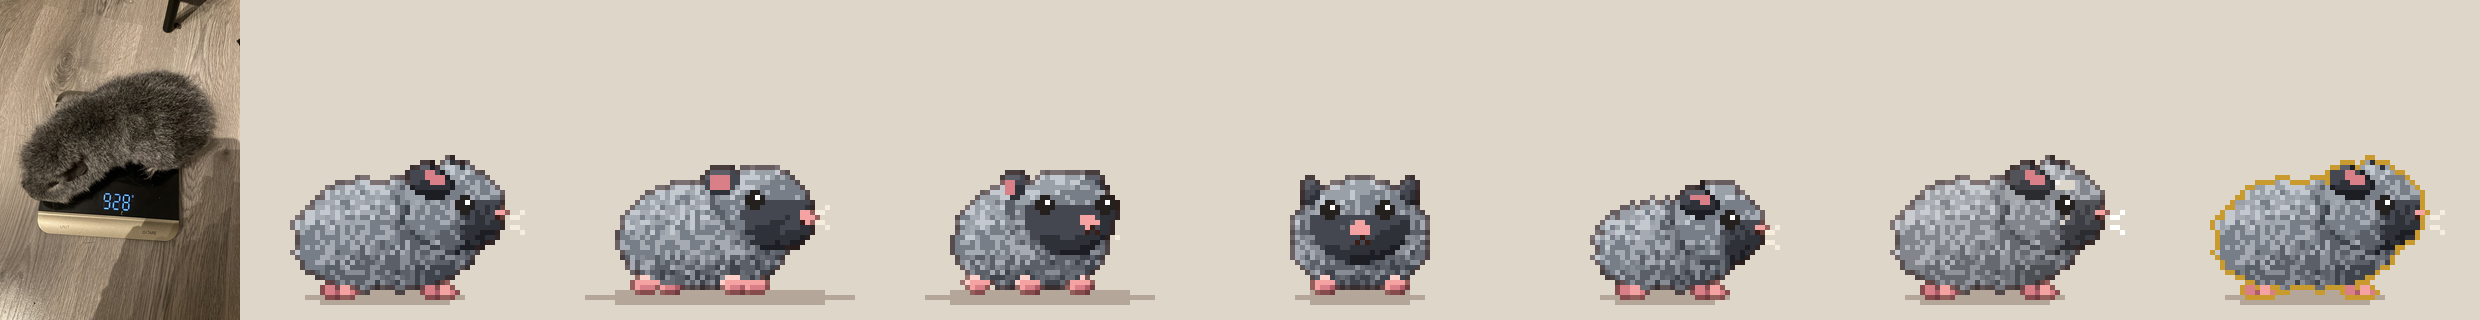
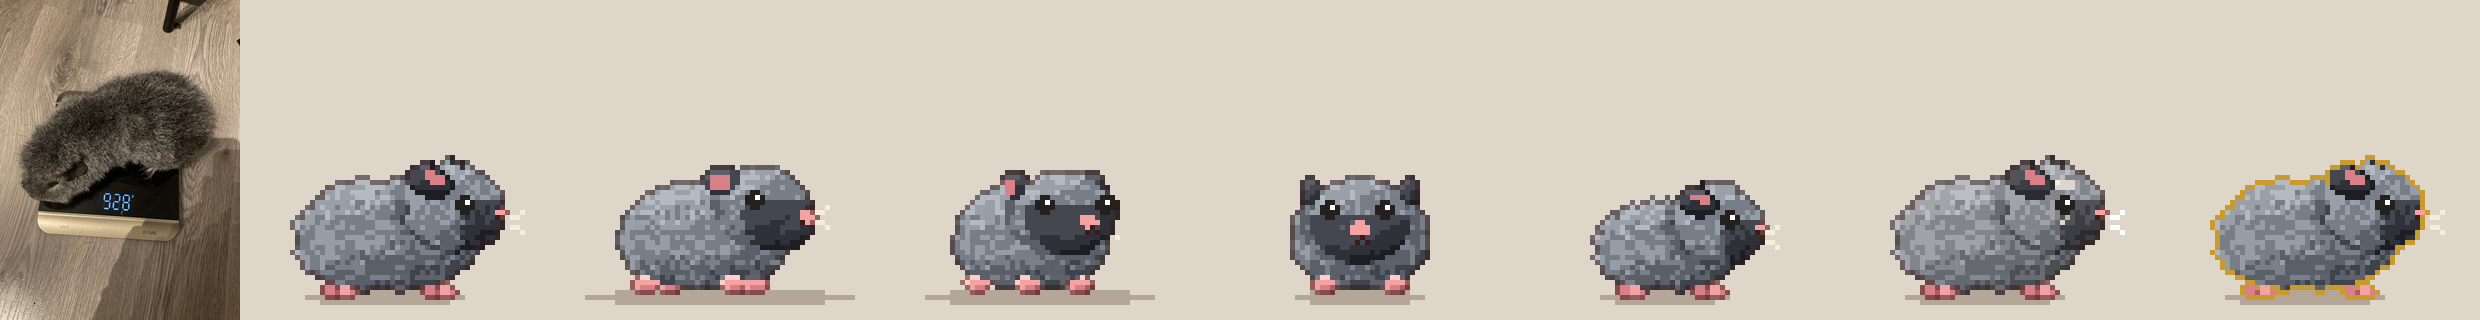
docs: appearance V3 audit, plan status, missing-graphics table; stronger generic whorls
Claude-Session: https://claude.ai/code/session_0135h6bTXzjAgeLjpLoaFjGV

diff --git a/tools/art/whorls.py b/tools/art/whorls.py
@@ -74,4 +74,6 @@ def field(key, u, v, w):
                 near = (di < cs[ci][2] * 1.5) & (dj < cs[cj][2] * 1.5)
                 dif = di - dj
                 d = np.where(near & (np.abs(dif) < 0.7) & ~core, -1.2, np.where(near & (dif > 0.7) & (dif < 1.7) & ~core, np.maximum(d, 0.6), d))
+    if key == 'rosette':
+        d = d * 1.7      # generic coats have no colour change in the whorls: the light has to carry them
     return d, ray, core

diff --git a/docs/AUDYT_WYGLAD_V3.md b/docs/AUDYT_WYGLAD_V3.md
@@ -1,0 +1,38 @@
+# Audyt wyglądu V3 (fale A0-A8)
+
+Stan na 2026-11-02. Plan: `docs/PLAN_WYGLAD_V3.md`, research: `docs/RESEARCH_WYGLAD_V3.md`, panele "zdjęcie | sprite": `docs/album/compare/<id>.png` (`tools/art/compare_named.py`).
+
+## Co jest zrobione
+| Fala | Wynik |
+| --- | --- |
+| A0 | `colorlab.py` (CIEDE2000 zgodny z danymi Sharmy, k-means w Lab), `ref_spec.py`, `docs/reference/pigs/spec/` (specyfikacje, listy cech, rampy regionów), trzecie zdjęcie Kukiego (cztery pasy) |
+| A1 | `coatgen.py`: wzór w przestrzeni modelu, szum, warping, dither o progu stałym na powierzchni; sloty Q0-Q3 z rampami pięciu świnek; strefy wzorów generycznych z organicznym warpingiem |
+| A2 | `fur.py`: kępy zależne od rasy (teddy, rex, rosette, peruvian), światło krawędziowe, obrys selektywny (sel-out) dla pięciu świnek |
+| A3 | `whorls.py`: wir (promienie o różnej długości, jasny środek) + grzebień między wirami; Kuki ma złote rozetki na ciemnym zadzie |
+| A4 | częściowo: uszy, pyszczek, łysiny i oczy per świnka; patrz "Nie zrobione" |
+| A5 | arkusze pięciu świnek `assets/sprites/pigs/<id>/<stage>/` (5 etapów, baked, bez remapu) + `pigs.json`, `tools/art/export_named.py` |
+| A6 | pięć nowych wzorów generycznych (`brindle`, `magpie`, `tortoiseshell`, `belt`, `blaze_only`), wszystkie kształty zregenerowane z sierścią i rozetkami; `palettes.json` ma 99 + 50 id |
+| A8 | `verify_palettes`: 0 różnic; `check_sprites` bez błędów; `anim-test`, `palette-test`, `web-smoke` OK |
+
+## Ocena per świnka (uczciwa)
+| Świnka | Ocena | Uwagi |
+| --- | --- | --- |
+| Racuch | dobra | siodło, biały czubek, łysina i plama przy uchu czytelne; siodło tylko na grzbiecie (zdjęcie z góry pokazuje szerszy pas) |
+| Kuki | dobra | ruda przód, ciemny zad, dwie złote rozetki rozpoznawalne; ruda łata na biodrach i ciemny pas z góry słabo widoczne z boku; granica ruda/ciemna wciąż dość pionowa mimo miękkiego dithera |
+| Glen | dobra | czarna bryła czyta się po połysku i kępach, rudy pasek w uchu i smuga na boku; wiry tylko jako połysk |
+| James | średnia+ | szary roan bez łat, ciemny pyszczek; brak kręconych wąsów (rex) |
+| Ned | średnia+ | brąz na uszach, oczach i barkach, biały pysk; "serce" praktycznie niewidoczne, brązowy kark/szyja mogłyby sięgać dalej |
+
+## Nie zrobione / słabe
+- **A4:** kręcone wąsy rexa, osobne kształty głów per rasa.
+- **A7:** portrety 128 px pominięte (po A5 w 64 px nadal czytelne; decyzja do ponownej oceny przy karcie kolekcji).
+- Rozetki na maściach generycznych: słabo widoczne (brak zmiany koloru w wirze, tylko światło).
+- Ikony dla pięciu nowych wzorów generycznych nie narysowane.
+- Album (`docs/album/index.html`) nie zregenerowany po V3 (ciężki, 12 MB); panele porównawcze `docs/album/compare/` są aktualne.
+- Test migotania (różnice klatek tylko tam, gdzie ruszyła się bryła) nie wykonany jako automatyczny; kotwiczenie w współrzędnych modelu zapewnia stabilność z konstrukcji.
+- Kryteria liczbowe z planu (IoU łat, deltaE) nie policzone; ocena na przeglądzie paneli.
+- Rozmiar `assets/sprites`: 38 MB (plan zakładał do 30 MB); +15 MB to arkusze pięciu świnek w x1 i x2.
+- `dotnet test` i uruchomienie `Cuy.exe` nie są możliwe w tej sesji.
+
+## Kontrakt dla kodu (poza zakresem grafiki)
+Loader musi znać `assets/sprites/pigs/pigs.json` (arkusz per świnka, bez `palettes.json`) obok `breeds.json`; reszta kontraktów T1-T10 w `docs/PLAN_GRAFIK_V2.md`.

diff --git a/BRAKUJACA_GRAFIKA.md b/BRAKUJACA_GRAFIKA.md
@@ -48,3 +48,13 @@ The five borrowed item icons now have their own: `soft_pellets`, `warm_house_bed
 | Icons 107-119 (8 patterns, hide, fence, feeder, bedding, trait_skittish) | done | `icons_16.png`, `.icon-pattern-*` etc. |
 | Decor: 40 shop items in an atlas | done | `assets/decor/decor.png`, `decor.json`, proposed `decor_items.json` |
 | Code that uses all this (per-pig life, unlocks, rotation playback, decor drawing, new slots) | **not done**, contracts T1-T10 in `docs/PLAN_GRAFIK_V2.md` | - |
+
+## Appearance round 3 (A0-A8, `docs/PLAN_WYGLAD_V3.md`, audit `docs/AUDYT_WYGLAD_V3.md`)
+| Item | Status | Where |
+| --- | --- | --- |
+| Photo specs of the five pigs | done | `docs/reference/pigs/spec/` |
+| Model-space coat engine, fur, rosette whorls | done | `tools/art/coatgen.py`, `fur.py`, `whorls.py` |
+| Baked sheets of the five named pigs (5 stages) | done | `assets/sprites/pigs/<id>/<stage>/`, `pigs.json` |
+| Five new generic patterns | done | `palettes.json` ids `brindle.*`, `magpie.*`, `tortoiseshell.*`, `belt.*`, `blaze_only.*` |
+| Curly rex whiskers, per-breed heads, 128 px portraits, new pattern icons | not done | audit |
+| Code that loads `pigs.json` | **not done** (outside graphics) | - |

diff --git a/docs/VISUAL_LOG.md b/docs/VISUAL_LOG.md
@@ -95,3 +95,6 @@ Owner: wygląd świnek słaby (łaty, układ kolorów, sierść, rozetki). Napis
 ## 2026-11-02 A1 silnik maści w przestrzeni modelu (done)
 `tools/art/coatgen.py`: szum 3D (numpy), warping, dither o progu stałym na powierzchni (bez migotania), sloty Q0-Q3 z własnymi rampami i wzory pięciu świnek liczone z punktu na powierzchni (ciało: u,phi; głowa: xh,yh,zh). Podpięte w `pig.py` (`set_style(named=...)`, strona boczna) i `yaw.py` (obrót). Strefy wzorów generycznych dostały organiczny warping (`body_zones`). Brak szwu, ten sam wzór w idle i turn. Dalsze dopracowanie wzorów w A5.
 Eksport arkuszy pięciu świnek i regeneracja arkuszy generycznych: A5/A6 (wymaga pełnego `verify_palettes`).
+
+## 2026-11-02 A2-A8 wygląd V3 (done z ograniczeniami)
+Sierść (`fur.py`), rozetki (`whorls.py`), obrys selektywny, arkusze pięciu świnek (`export_named.py`), pięć nowych wzorów generycznych, regeneracja wszystkich kształtów. Testy: verify_palettes 0 różnic, check_sprites, anim-test, palette-test, web-smoke OK. Ocena i braki: `docs/AUDYT_WYGLAD_V3.md`.

diff --git a/docs/PLAN_WYGLAD_V3.md b/docs/PLAN_WYGLAD_V3.md
@@ -114,3 +114,6 @@ A0 -> A1 -> (A2, A3 równolegle po A1) -> A4 -> A5 -> A6 -> A8; A7 po A5. Najpie
 - Gotowych świnek ani darmowych sprite'ów gryzoni nie ma (research §7), więc wzorcem są wyłącznie zdjęcia właściciela; zewnętrzne potoki 3D -> pixel art (Blender add-ony) odrzucone (research §6).
 - Środowisko ma tylko numpy i Pillow (brak scipy, skimage, opencv, sklearn): CIEDE2000, k-means i szum piszę sam w numpy; gotowe biblioteki służą za wzór formuł (research §0, §2).
 - Zdjęcia nie pokazują wszystkich widoków (np. brak tyłu Neda): nieznane części ustalam konwencją i oznaczam w `spec` jako "domysł".
+
+## Status wykonania (2026-11-02)
+A0, A1, A2, A3, A5, A6 i A8 wykonane (z ograniczeniami); A4 częściowo, A7 pominięta. Szczegóły i uczciwa ocena: `docs/AUDYT_WYGLAD_V3.md`.
